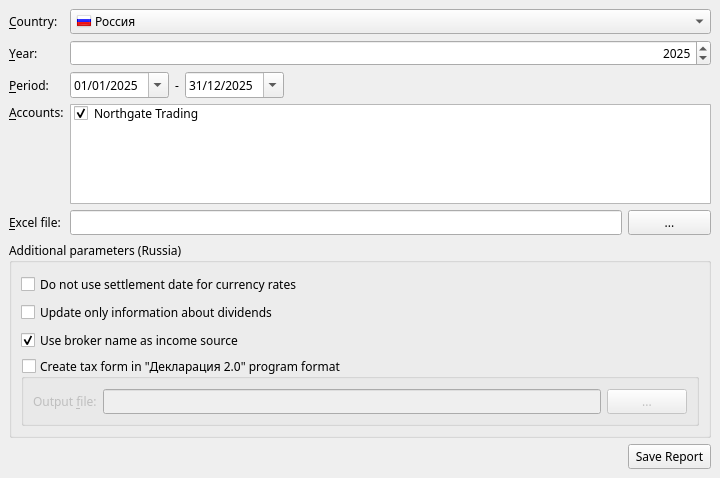
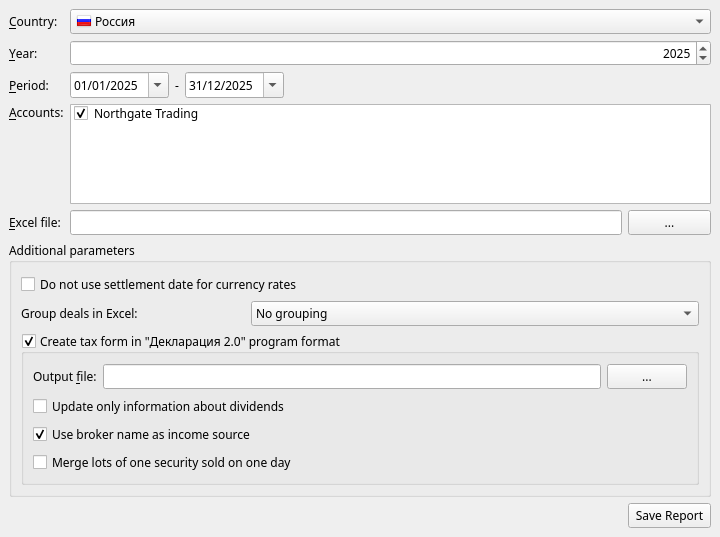
Manual: grouping of deals in the tax report and the form files

diff --git a/tools/manual/capture.py b/tools/manual/capture.py
@@ -313,18 +313,25 @@ def capture_edit_dialogs(window):
     symbol.reject()
 
 
-def capture_tax_windows(window):
-    from jal.widgets.tax_widget import TaxWidget, MoneyFlowWidget
+# The tax report dialog of each country, its form file ticked so that the file's options read as enabled
+def capture_tax_forms(window):
+    from jal.widgets.tax_widget import TaxWidget
     for country, name in (('pt', "tax_forms_pt"), ('ru', "tax_forms_ru")):
         widget = TaxWidget(window.ui.windowArea)
         widget.ui.Year.setValue(2025)
         widget.ui.Country.setCurrentIndex(widget.ui.Country.findData(country))
+        widget.ui.FormGroup.setChecked(True)
         widget.show()
         QApplication.processEvents()
         widget.resize(720, widget.sizeHint().height())
         QApplication.processEvents()
         save(widget, name)
         widget.close()
+
+
+def capture_tax_windows(window):
+    from jal.widgets.tax_widget import MoneyFlowWidget
+    capture_tax_forms(window)
     capture_tax_treatment(window)
     flow = MoneyFlowWidget(window.ui.windowArea)
     flow.resize(720, 200)

diff --git a/docs/manual/11-taxes.md b/docs/manual/11-taxes.md
@@ -75,6 +75,42 @@ With more than one account ticked, one report covers them all, and the replay of
   made on that netted total;
 * the declaration files take every account's lines, each under its own broker, country and currency.
 
+### Grouping the deals
+
+A sale is reported lot by lot: one line for each purchase it closed, matched first in, first out. An
+order filled in several trades, or a position built over many purchases, turns into many lines for
+what the declaration sees as one sale. Two options shorten that without changing a figure — every
+total, the Summary and the [base estimations](#base-estimation) stay the same to the cent. Both are
+off unless you turn them on.
+
+**Group deals in Excel** folds the lots on the sheet:
+
+| Choice | One group is |
+|---|---|
+| **No grouping** | — every lot is a line, as before |
+| **Security and sale day** | the lots of one security sold on one day |
+| **Security** | all the lots of one security |
+| **Security, purchase day and sale day** | the lots of one security bought on one day and sold on one day |
+
+A group of several lots gets a **bold line of sums** above it — quantity, amounts and fees of the
+purchases and of the sales, income, cost and result — and its lots are folded under that line: the
+sheet opens with the groups closed, and prints that way. Click **+** in the left margin to see the
+lots of one group, or the **2** above the margin to open them all. Nothing is removed: every lot is
+still on the sheet with its trade numbers, so it can be checked against the broker's statement. On
+the bold line a date, a rate or a price is shown only where all its lots share it; where a leg was
+made of several trades, the number column says how many. A lot alone in its group stays an ordinary
+line. A short sale is grouped apart from the purchases and sales of the same security, by the sale
+that opened it.
+
+Shares, funds and derivatives are grouped in both reports, bonds in the Portuguese one only; the
+Russian bond sheet and the crypto sheets are not.
+
+**Merge lots**, in the box of the declaration file (see [The country options](#the-country-options)),
+writes one line of the file for a group instead of one per lot. The spreadsheet is not affected by
+it, so the detailed sheet stays as the proof behind the shorter file. Choose the matching level in
+Excel — *Security, purchase day and sale day* for Portugal, *Security and sale day* for Russia — and
+each bold line of the sheet is a line of the file.
+
 ### Tax bases
 
 The law declares some kinds of income apart from others, and a loss on one kind does not reduce a
@@ -292,6 +328,9 @@ Summary sheet.
 
 ### The country options
 
+The options under **Additional parameters** change with the country. Those inside the box of the
+declaration file apply to that file only and are greyed out until the box is ticked.
+
 **Portugal**
 
 * **Convert at the rate of the disposal date only (CIRS art. 23)** — on by default: the cost, the
@@ -299,12 +338,17 @@ Summary sheet.
   article 23 of the CIRS describes. Unchecked, each leg is converted at the rate of its own trade
   date. A short sale is converted at the rate of the sale that opened it; that is JAL's reading,
   not a confirmed rule, and the line says so.
+* **Group deals in Excel** — see [Grouping the deals](#grouping-the-deals).
 * **Create XML records to introduce in Modelo-3 form** — also write an XML file with the lines of
   Annex J: table 9.2A for shares, funds and bonds, each with its code, and table 9.2B for derivatives.
   A short sale is written as realized by the sale that opened it; a stock short open at the end of
   the year is left out of the file — enter it by hand (see [Short sales](#short-sales)). The 9.2B
   lines are a first draft — check them against the form before loading them. Crypto is not in the
   file yet: enter it from the crypto sheets.
+  * **Merge lots of one security bought on one day and sold on one day** — one 9.2A line for such
+    lots, with the sums of their acquisition values, realization values and expenses. A line of the
+    form has one date of acquisition and one of realization, so nothing it asks for is lost. The
+    9.2B lines are not merged.
 
 **Russia**
 
@@ -312,13 +356,19 @@ Summary sheet.
 
 * **Do not use settlement date for currency rates** — take rates from the trade date instead of the
   settlement date.
-* **Update only information about dividends** — fill in the dividend sections of the declaration only.
-* **Use broker name as income source** — name the broker, rather than the issuer, as the source of
-  income.
+* **Group deals in Excel** — see [Grouping the deals](#grouping-the-deals).
 * **Create tax form in "Декларация 2.0" program format** — also write a declaration file for the
   official program (its extension carries the year: `.de5` for 2025, `.de6` for 2026), with the codes
   of the parameter file. It holds dividends, securities, derivatives and interest; crypto is not in it
   yet.
+  * **Update only information about dividends** — fill in the dividend sections of the declaration only.
+  * **Use broker name as income source** — name the broker, rather than the issuer, as the source of
+    income.
+  * **Merge lots of one security sold on one day** — one record for the shares, funds or derivatives
+    of one security sold on one day, with the sums of their income and deductions. Such lots share the
+    date of income and the rate, which is all a record holds of a sale; the purchase dates are on the
+    sheet. Bonds are not merged. Load a merged file into the program once and compare its totals with
+    the sheet before you rely on it.
 
 ## Money flow report *(Russia)*
 
